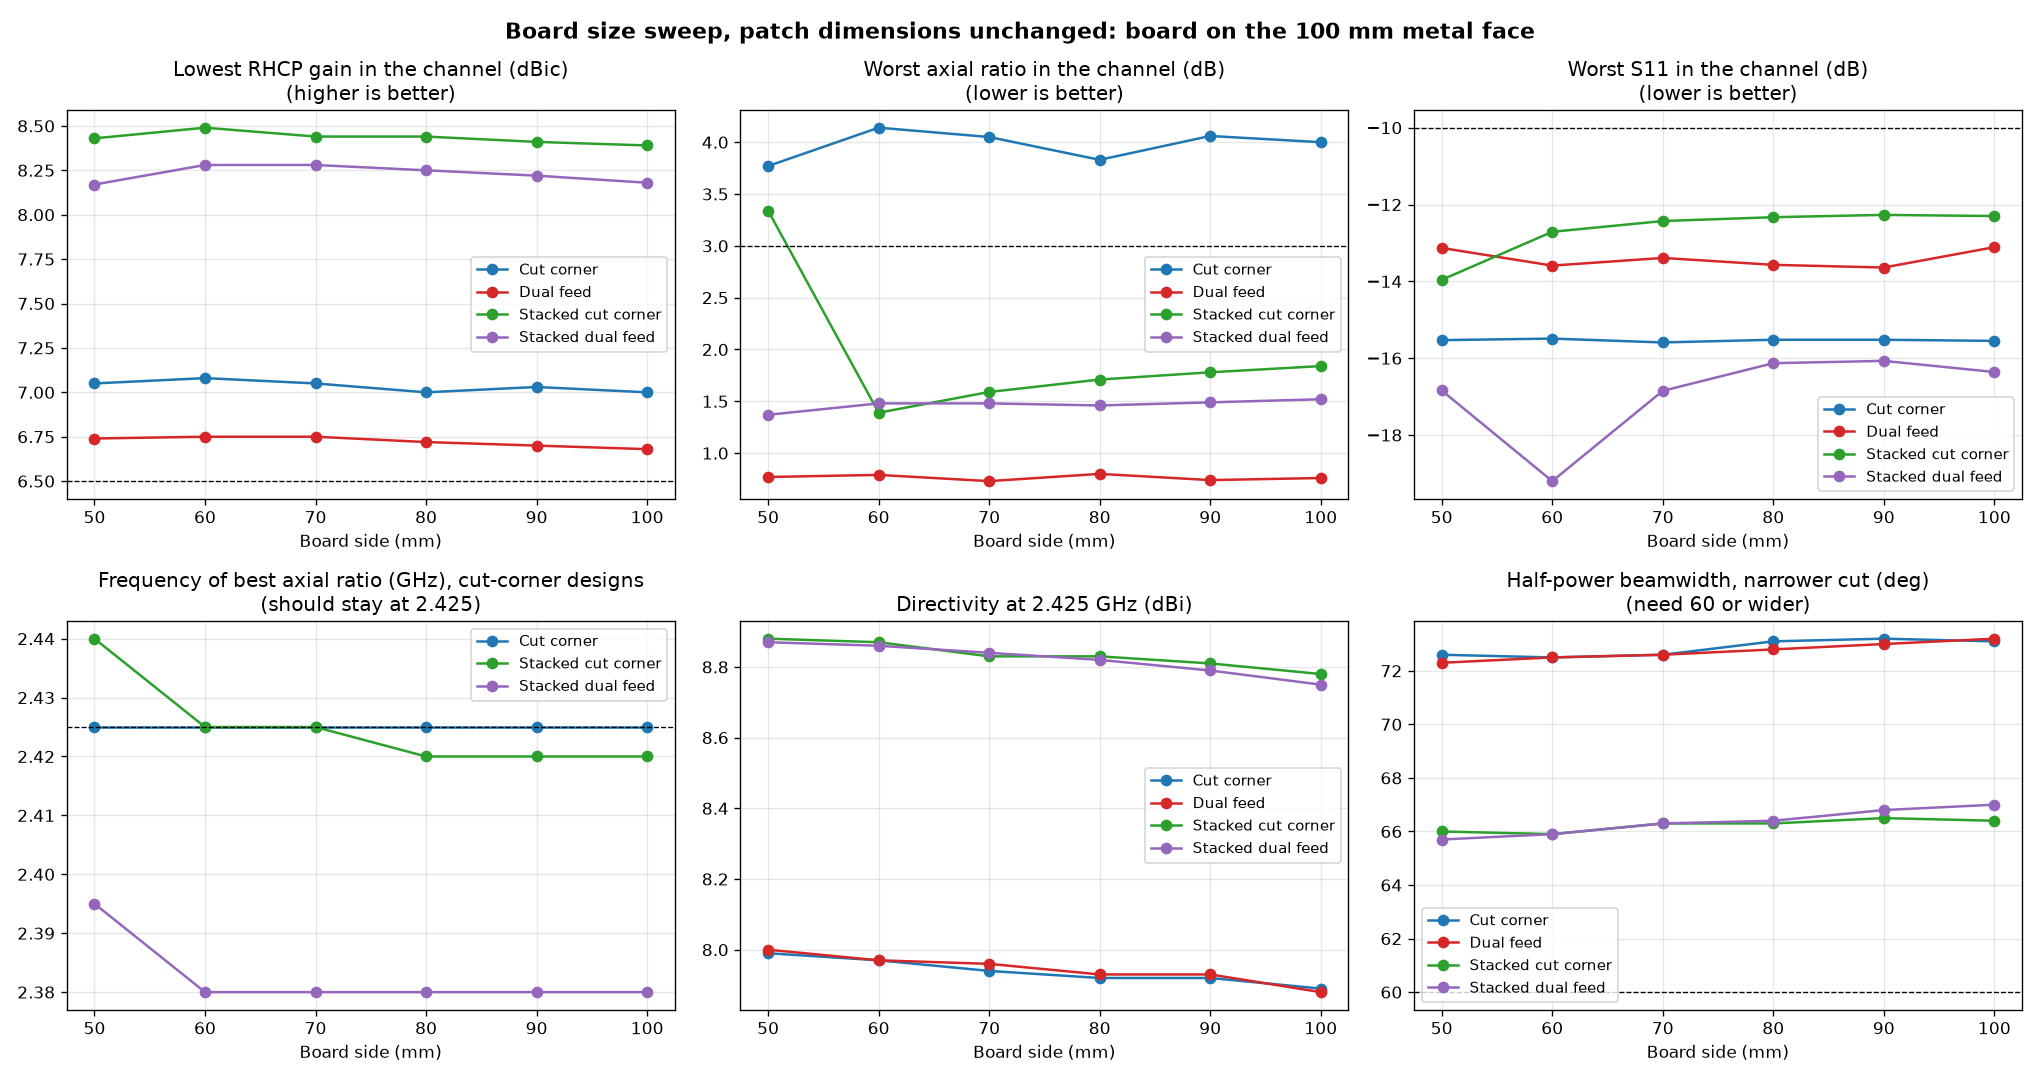
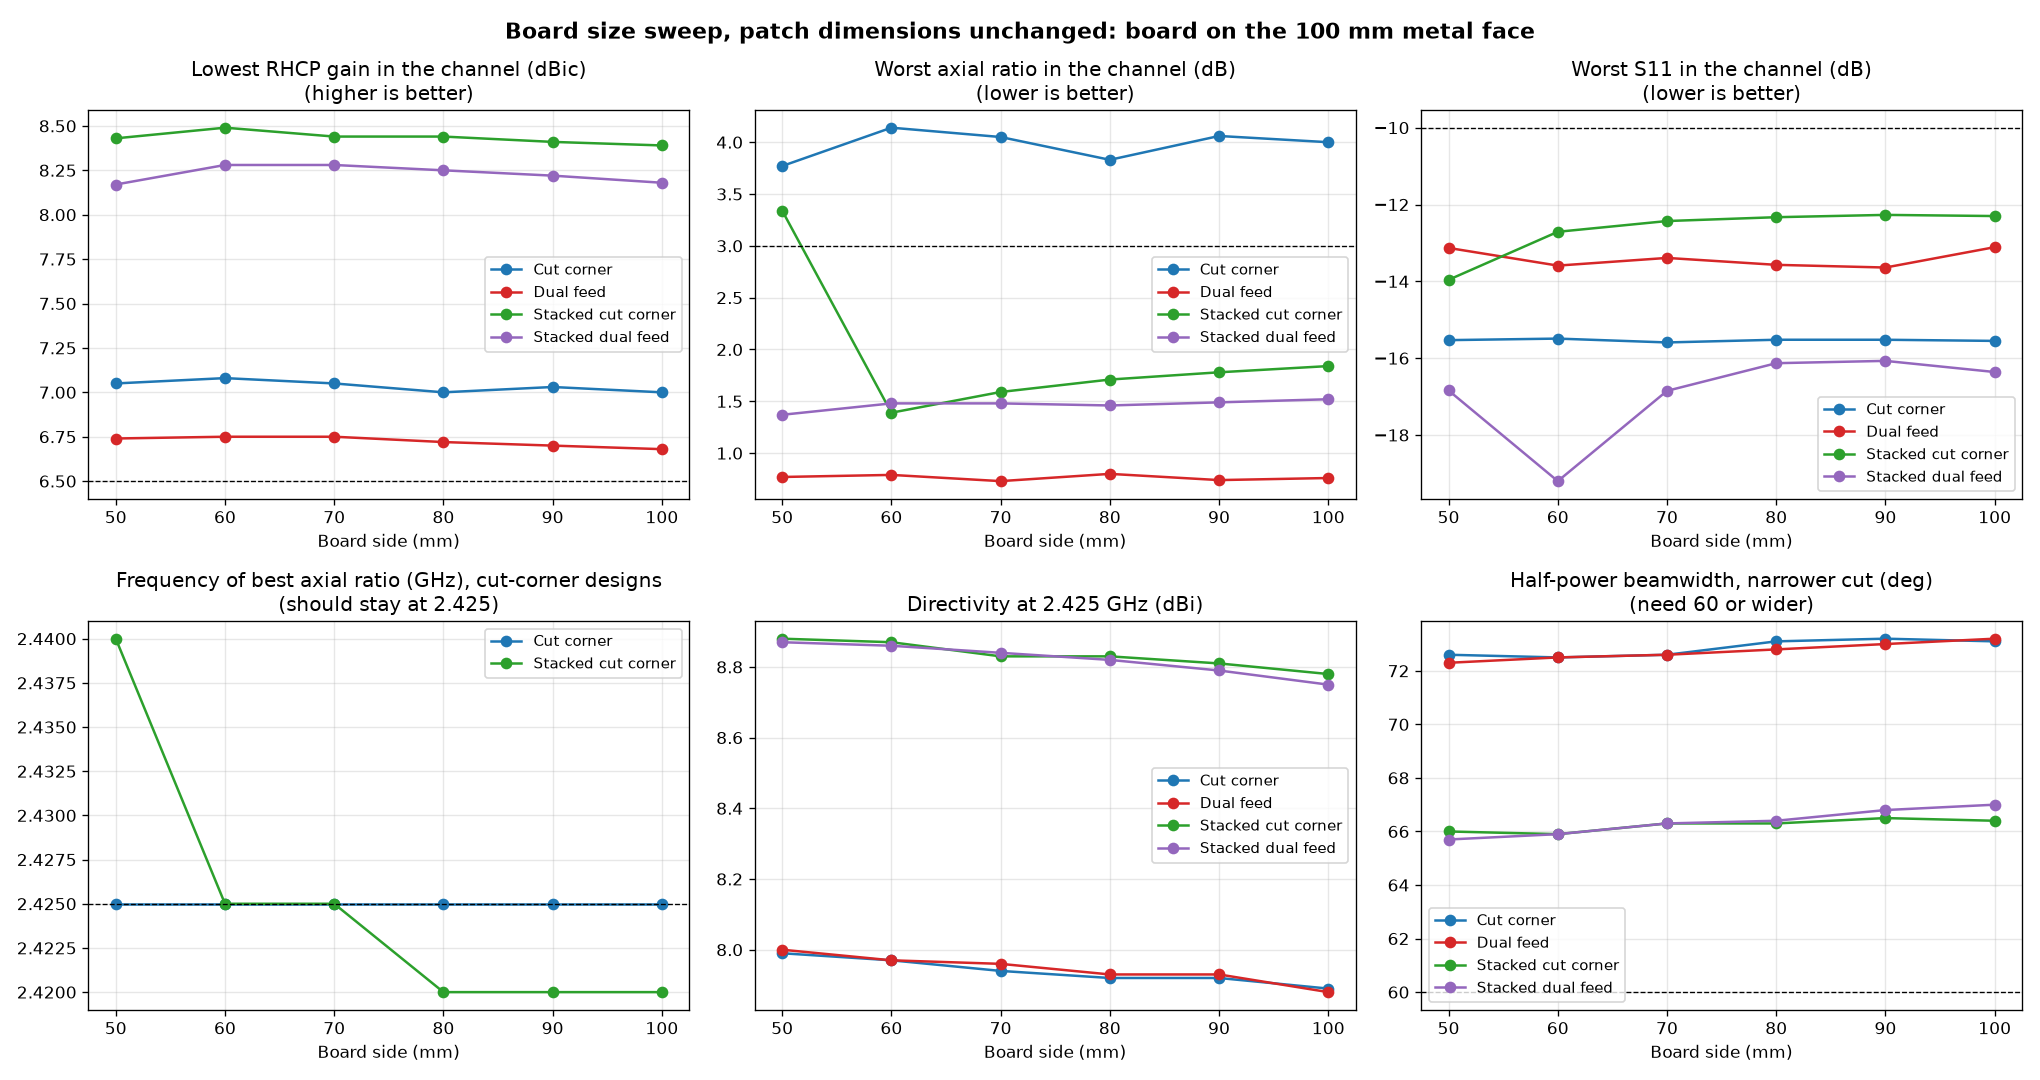
Bare-board size sweep: 50 mm results, plot fix

diff --git a/sim/sweep_report.py b/sim/sweep_report.py
@@ -147,7 +147,7 @@ def sweep_plot(data, bare, path):
     for a, (key, title, line, note) in zip(ax.flat, panels):
         for k in KEYS:
             gs = sorted(data[k])
-            if key == "ar_f" and k in ("A", "SD"):
+            if key == "ar_f" and k in ("A", "D"):
                 continue        # a dual feed's axial ratio is flat, so its "best" frequency means nothing
             if gs:
                 a.plot(gs, [data[k][g][key] for g in gs], "o-", color=COLOR[k], label=LABEL[k])

diff --git a/sim/results_hfss/sweep_tables.md b/sim/results_hfss/sweep_tables.md
@@ -83,23 +83,27 @@
 
 | Board side | Worst S11 | Worst axial ratio | Best axial ratio at | 3 dB AR window | RHCP gain in channel | Directivity | Efficiency | Beamwidth | All pass |
 | --- | --- | --- | --- | --- | --- | --- | --- | --- | --- |
+| 50 mm | -15.2 dB | 6.71 dB | 1.42 dB at 2.4150 GHz | 15.8 MHz | 5.78 to 6.14 dBic | 6.81 dBi | 90 % | 91 deg | no |
 | 100 mm | -15.6 dB | 4.00 dB | 0.31 dB at 2.4250 GHz | 16.0 MHz | 7.00 to 7.17 dBic | 7.89 dBi | 87 % | 73 deg | no |
 
 **Dual feed** (typical coupler, 0.4 dB coupler loss included)
 
 | Board side | Worst S11 | Worst axial ratio | Best axial ratio at | 3 dB AR window | RHCP gain in channel | Directivity | Efficiency | Beamwidth | All pass |
 | --- | --- | --- | --- | --- | --- | --- | --- | --- | --- |
+| 50 mm | -9.6 dB | 0.76 dB | 0.07 dB at 2.4100 GHz | n/a MHz | 5.47 to 5.91 dBic | 6.82 dBi | 89 % | 90 deg | no |
 | 100 mm | -13.1 dB | 0.76 dB | 0.08 dB at 2.4300 GHz | n/a MHz | 6.68 to 6.86 dBic | 7.88 dBi | 87 % | 73 deg | yes |
 
 **Stacked cut corner**
 
 | Board side | Worst S11 | Worst axial ratio | Best axial ratio at | 3 dB AR window | RHCP gain in channel | Directivity | Efficiency | Beamwidth | All pass |
 | --- | --- | --- | --- | --- | --- | --- | --- | --- | --- |
+| 50 mm | -13.8 dB | 5.94 dB | 4.21 dB at 2.4400 GHz | n/a MHz | 6.57 to 6.93 dBic | 7.50 dBi | 94 % | 76 deg | no |
 | 100 mm | -12.3 dB | 1.84 dB | 0.75 dB at 2.4200 GHz | 49.5 MHz | 8.39 to 8.42 dBic | 8.78 dBi | 98 % | 66 deg | yes |
 
 **Stacked dual feed** (typical coupler, 0.4 dB coupler loss included)
 
 | Board side | Worst S11 | Worst axial ratio | Best axial ratio at | 3 dB AR window | RHCP gain in channel | Directivity | Efficiency | Beamwidth | All pass |
 | --- | --- | --- | --- | --- | --- | --- | --- | --- | --- |
+| 50 mm | -7.7 dB | 1.21 dB | 0.50 dB at 2.4100 GHz | n/a MHz | 5.95 to 6.29 dBic | 7.53 dBi | 94 % | 78 deg | no |
 | 100 mm | -16.4 dB | 1.52 dB | 0.77 dB at 2.3800 GHz | n/a MHz | 8.18 to 8.22 dBic | 8.75 dBi | 98 % | 67 deg | yes |
 
